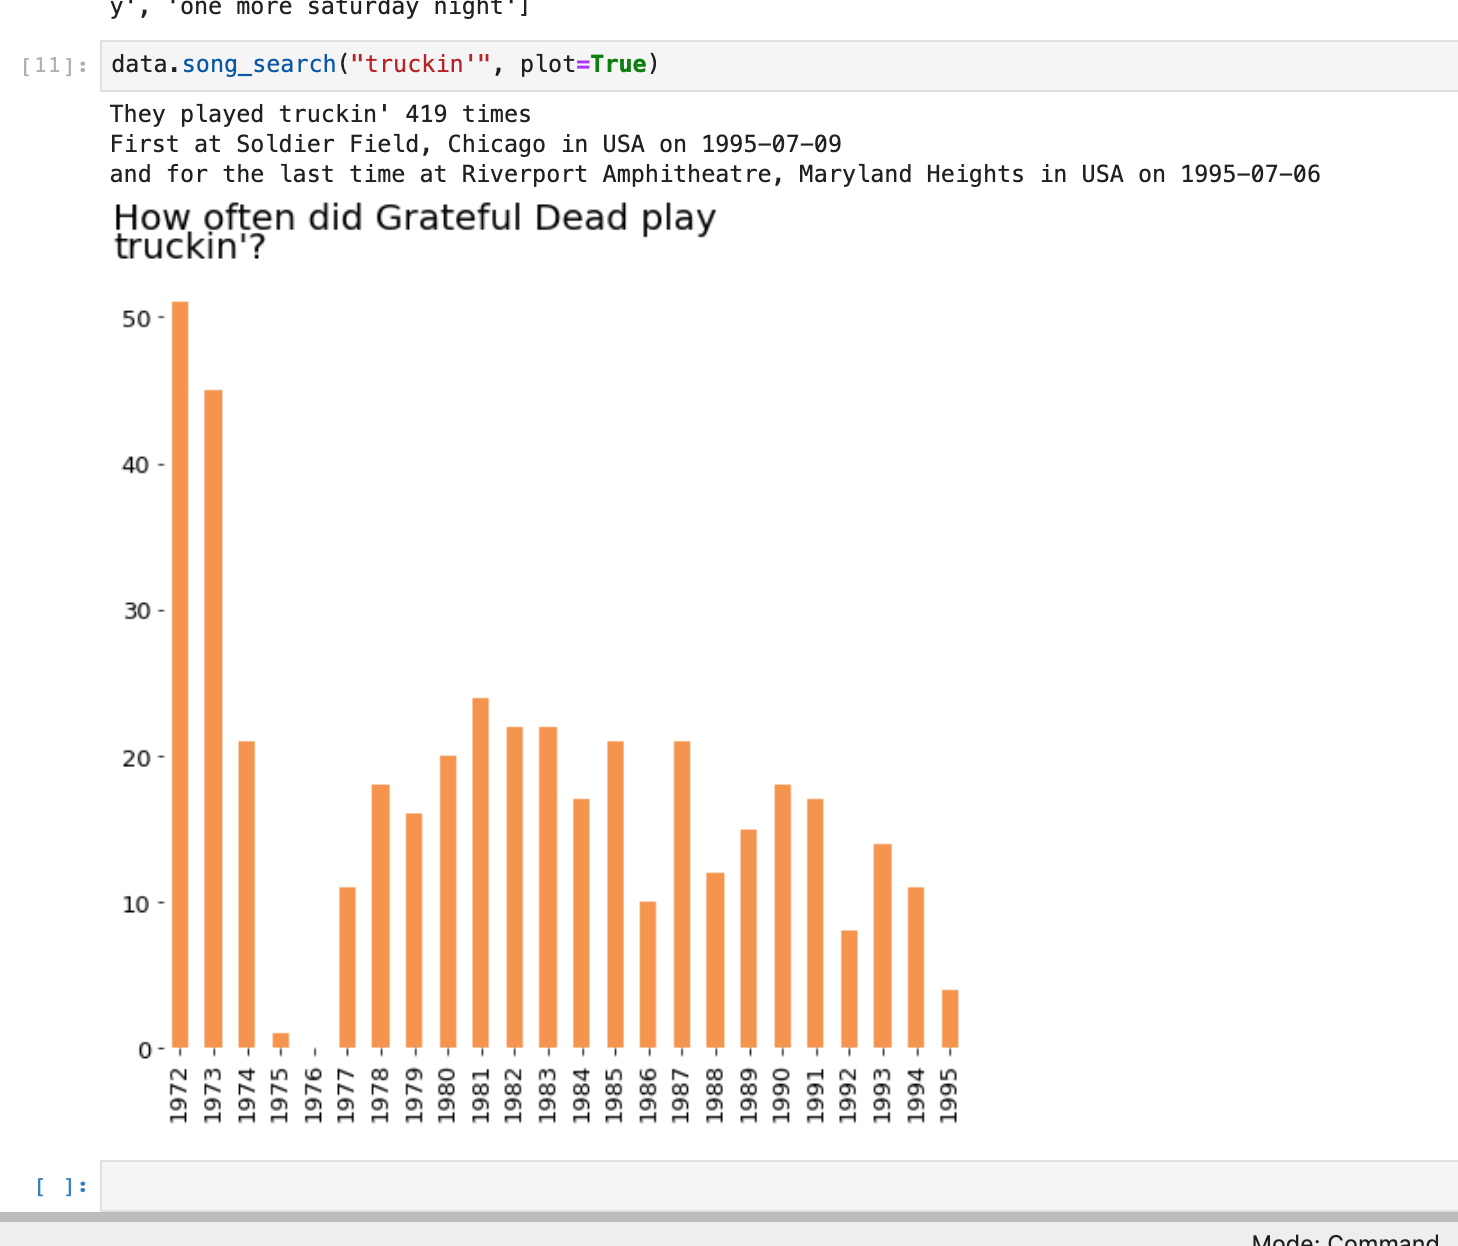
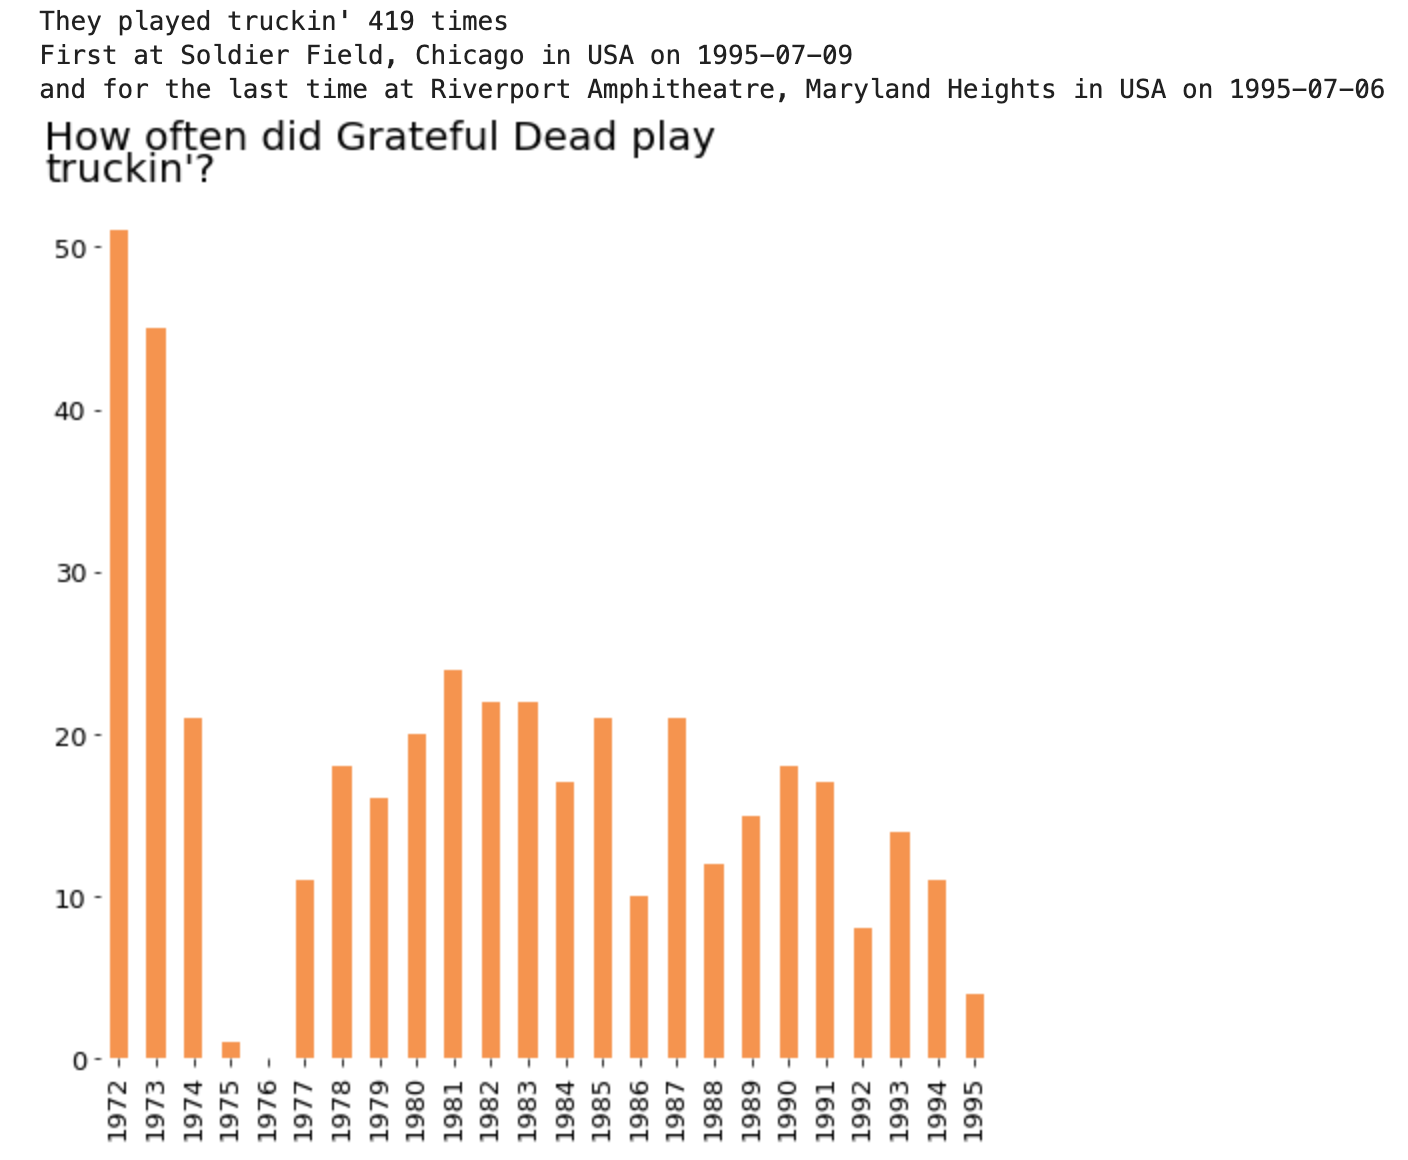
reshoot images

Changed region(s): [[0.0, 0.0, 1.0, 1.0]]

diff --git a/README.md b/README.md
@@ -22,7 +22,7 @@ The first of these objects has a few methods to allow you to quickly get some in
 ![randomShow](images/rS.jpg)
 
 * .nextShow(). This iterates through the data. Every time you run ```print(data.nextShow())``` you will be given the next show.
-* .song_search(). This allows you to investigate how often a particular song was played. If you try ```data.song_search('sugar magnolia', plot=True)``` you should hopefully get the following:
+* .song_search(). This allows you to investigate how often a particular song was played. If you try ```data.song_search("truckin'", plot=True)``` you should hopefully get the following:
 
 ![song_search](images/sS.jpg)
 
